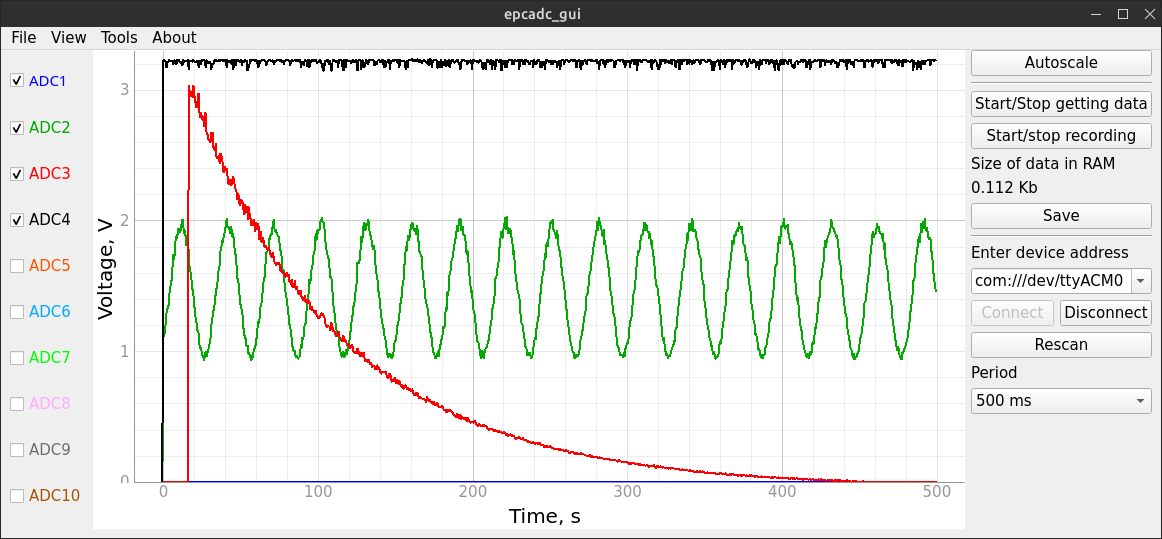
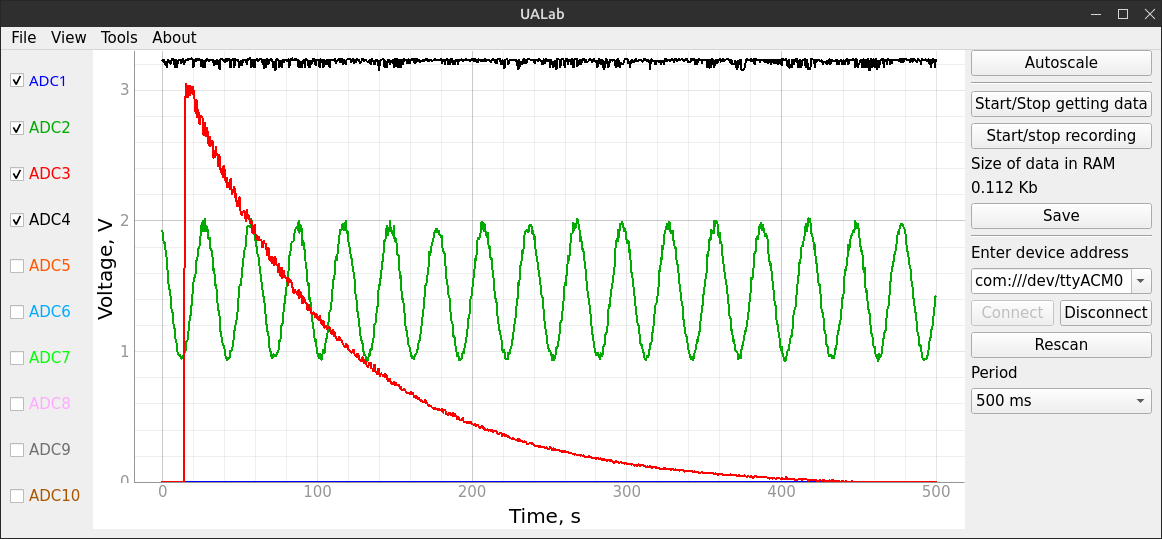
Update for realise.

diff --git a/urpcadcgui/urgui.py b/urpcadcgui/urgui.py
@@ -2,8 +2,8 @@ import sys
 import PyQt5.QtWidgets as qt
 import numpy as np
 import PyQt5.QtCore as qtc
-import gui
-import urpcadc
+import urpcadcgui.gui as gui
+import urpcadcgui.urpcadc as urpcadc
 import csv
 import serial.tools.list_ports
 from platform import system
@@ -127,7 +127,7 @@ class uRPCApp(qt.QMainWindow, gui.Ui_MainWindow):
         Simple about))) no more.
         """
         msgbox = qt.QMessageBox()
-        msgbox.setText("This is a simple cross-platform application for the usbadc10 device.\nVersion 0.1\n" +
+        msgbox.setText("This is a simple cross-platform application for the usbadc10 device.\nVersion 1.0.0\n" +
                        "Copyright © 2020 Nikita Presnov\npresnovnikita@yandex.ru")
         msgbox.exec_()
 

diff --git a/tests/test.py b/tests/test.py
@@ -1,7 +1,16 @@
+# from unittest import TestCase
+# from urpcadcgui.urgui import fortest
+
+
+# class Test(TestCase):
+#     def test_import(self):
+#         self.assertTrue(fortest() == "Hello, i am working app)))")
+
 from unittest import TestCase
 from urpcadcgui.urgui import fortest
 
 
-class Test(TestCase):
-    def test_import(self):
+class TestNothing(TestCase):
+    def test_nothing(self):
+        # we have already done the import, this was the test
         self.assertTrue(fortest() == "Hello, i am working app)))")

diff --git a/urpcadcgui/gui.py b/urpcadcgui/gui.py
@@ -419,7 +419,7 @@ class Ui_MainWindow(object):
 
     def retranslateUi(self, MainWindow):
         _translate = QtCore.QCoreApplication.translate
-        MainWindow.setWindowTitle(_translate("MainWindow", "epcadc_gui"))
+        MainWindow.setWindowTitle(_translate("MainWindow", "UALab"))
         self.b_1_blue.setText(_translate("MainWindow", "ADC1"))
         self.b_2_green.setText(_translate("MainWindow", "ADC2"))
         self.b_3_red.setText(_translate("MainWindow", "ADC3"))

diff --git a/urpcadcgui/speed_test.py b/urpcadcgui/speed_test.py
@@ -1,4 +1,4 @@
-import urpcadc
+import urpcadcgui.urpcadc as urpcadc
 import serial.tools.list_ports
 import time
 

diff --git a/README.md b/README.md
@@ -1,6 +1,5 @@
 # usbadc10
-Графический итрефейс для устройства usbadc10.
-Программа носит скроее демострационный характер, не ждите от неё высокой скорости и автоматизации.
+Графический интерфейс для устройства usbadc10.
 Помимо неё здесь также приложены тесты и тест скорости, по которому оценивалась скорость работы 
 
 Запустить этот проект (из корня):
@@ -8,7 +7,3 @@
 python urpcadcgui/urgui.py
 ```
 ![Скриншот совта](screen.png)
-
-В целом всё кроме скорости и дооформления гитхаба.
-
-
